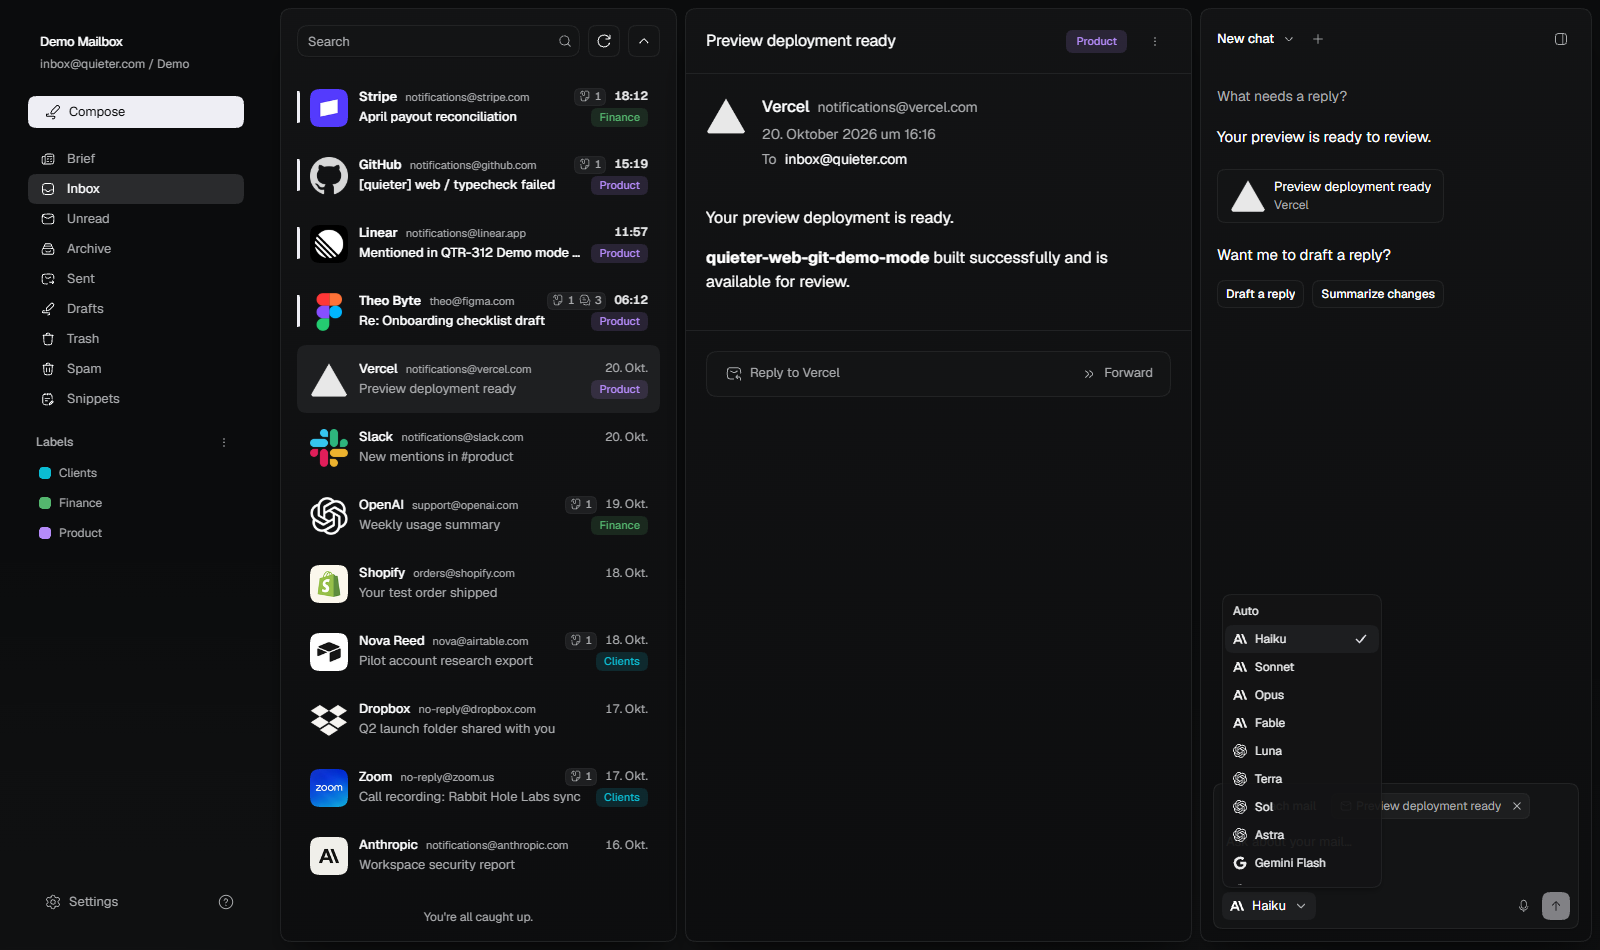
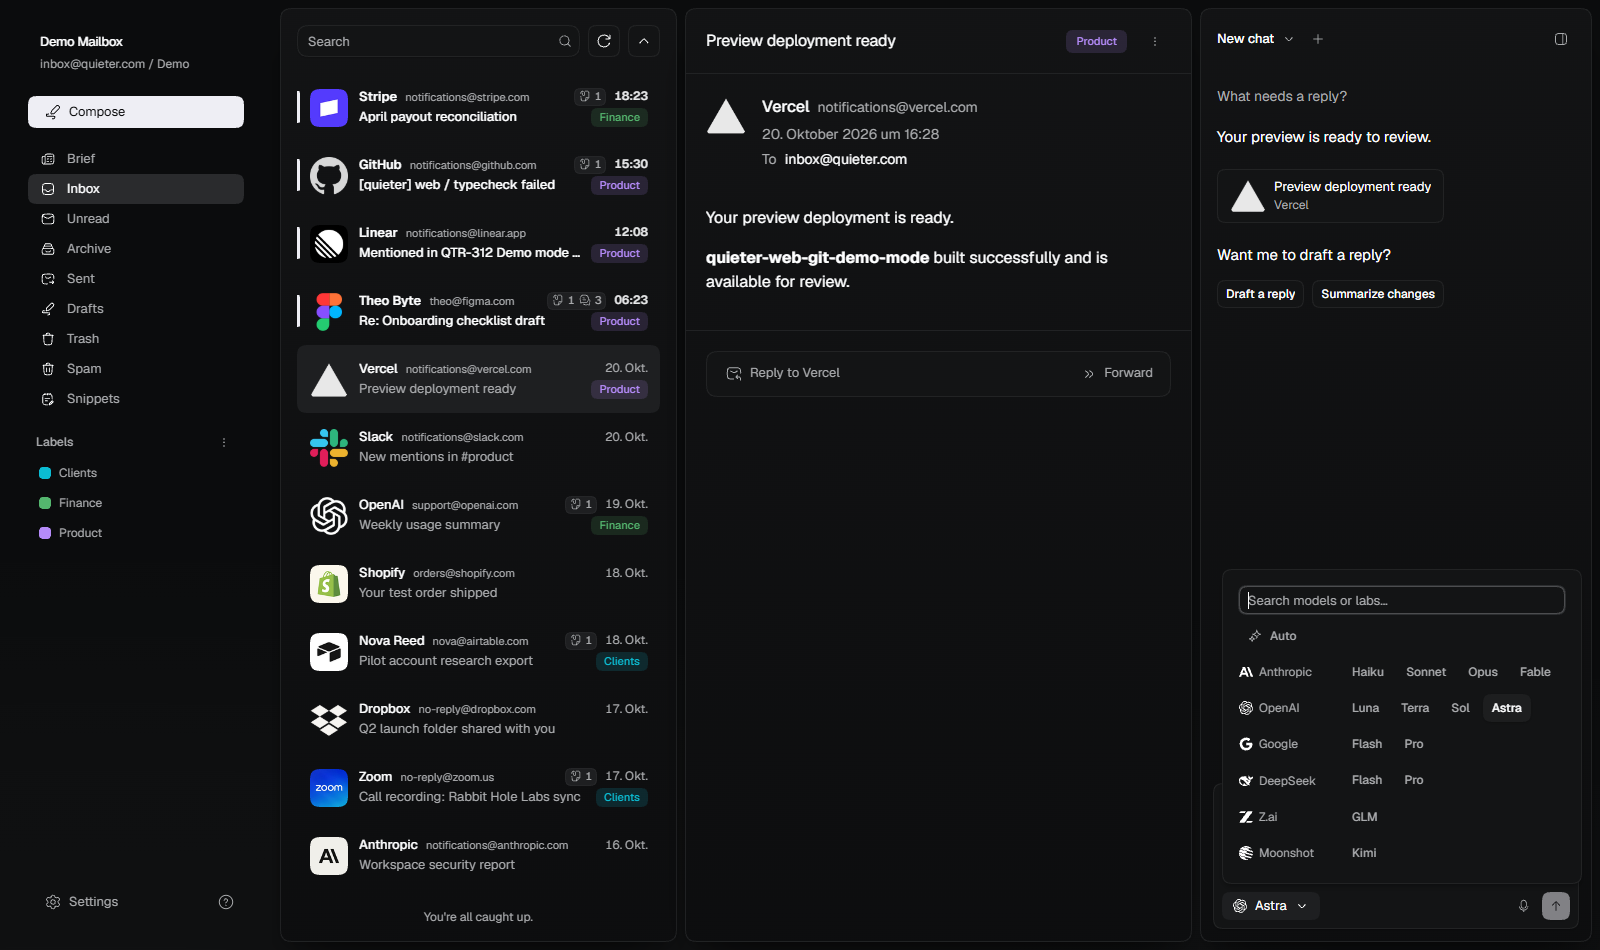
feat(chat): group and search model families

diff --git a/apps/web/src/features/chat/components/chat-model-picker.tsx b/apps/web/src/features/chat/components/chat-model-picker.tsx
@@ -1,0 +1,170 @@
+import { ArrowDown01Icon, SparklesIcon } from "@hugeicons/core-free-icons";
+import { HugeiconsIcon } from "@hugeicons/react";
+import { chatModelGroups, chatModels } from "@quieter/ai/chat-models";
+import type { ChatModel, ChatModelGroup } from "@quieter/ai/chat-models";
+import { Button } from "@quieter/ui/button";
+import { Input } from "@quieter/ui/input";
+import {
+  Popover,
+  PopoverContent,
+  PopoverTitle,
+  PopoverTrigger,
+} from "@quieter/ui/popover";
+import { useState } from "react";
+
+import { ModelLabLogo } from "./model-lab-logo";
+
+const labs = {
+  anthropic: { keywords: "claude", label: "Anthropic" },
+  deepseek: { keywords: "", label: "DeepSeek" },
+  google: { keywords: "gemini", label: "Google" },
+  moonshotai: { keywords: "moonshotai", label: "Moonshot" },
+  openai: { keywords: "gpt chatgpt", label: "OpenAI" },
+  "z-ai": { keywords: "z-ai zai", label: "Z.ai" },
+} satisfies Record<ChatModelGroup, { keywords: string; label: string }>;
+
+export const ChatModelPicker = ({
+  disabled,
+  model,
+  onModelChange,
+}: {
+  disabled?: boolean;
+  model: ChatModel | "auto";
+  onModelChange: (model: ChatModel | "auto") => void;
+}) => {
+  const [open, setOpen] = useState(false);
+  const [search, setSearch] = useState("");
+  const searchTerms = search.toLowerCase().trim().split(/\s+/u).filter(Boolean);
+  const autoMatches = searchTerms.every((term) =>
+    "auto automatic".includes(term)
+  );
+  const groups = chatModelGroups
+    .map((group) => ({
+      group,
+      options: chatModels.filter(
+        (option) =>
+          option.group === group &&
+          searchTerms.every((term) =>
+            `${labs[group].label} ${labs[group].keywords} ${option.label}`
+              .toLowerCase()
+              .includes(term)
+          )
+      ),
+    }))
+    .filter(({ options }) => options.length > 0);
+  const selectedModel = chatModels.find(
+    (option) =>
+      option.value === model ||
+      option.versions.some((version) => version === model)
+  );
+  const selectModel = (value: ChatModel | "auto") => {
+    onModelChange(value);
+    setOpen(false);
+  };
+
+  return (
+    <Popover
+      onOpenChange={(nextOpen) => {
+        setOpen(nextOpen);
+        if (nextOpen) {
+          setSearch("");
+        }
+      }}
+      open={open}
+    >
+      <PopoverTrigger
+        aria-label="Choose model"
+        disabled={disabled}
+        render={<Button className="max-w-full" size="sm" variant="ghost" />}
+      >
+        {selectedModel ? (
+          <ModelLabLogo lab={selectedModel.group} />
+        ) : (
+          <HugeiconsIcon aria-hidden icon={SparklesIcon} />
+        )}
+        <span className="truncate">{selectedModel?.label ?? "Auto"}</span>
+        <HugeiconsIcon aria-hidden icon={ArrowDown01Icon} />
+      </PopoverTrigger>
+      <PopoverContent
+        align="start"
+        className="flex max-h-(--available-height) w-90 flex-col"
+        side="top"
+        size="sm"
+      >
+        <PopoverTitle className="sr-only">Choose model</PopoverTitle>
+        <Input
+          aria-label="Search models"
+          onChange={(event) => {
+            setSearch(event.target.value);
+          }}
+          onKeyDown={(event) => {
+            if (event.key !== "Enter" || event.nativeEvent.isComposing) {
+              return;
+            }
+            event.preventDefault();
+            const firstMatch = groups.at(0)?.options.at(0);
+            if (autoMatches) {
+              selectModel("auto");
+            } else if (firstMatch) {
+              selectModel(firstMatch.value);
+            }
+          }}
+          placeholder="Search models or labs…"
+          size="sm"
+          type="search"
+          value={search}
+        />
+        <div className="mt-2 flex max-h-72 min-h-0 flex-col gap-2 overflow-y-auto">
+          {autoMatches ? (
+            <div>
+              <Button
+                aria-pressed={model === "auto"}
+                onClick={() => {
+                  selectModel("auto");
+                }}
+                size="compact"
+                variant="option"
+              >
+                <HugeiconsIcon aria-hidden icon={SparklesIcon} />
+                Auto
+              </Button>
+            </div>
+          ) : null}
+          {groups.map(({ group, options }) => (
+            <fieldset
+              aria-label={`${labs[group].label} models`}
+              className="flex items-start gap-2"
+              key={group}
+            >
+              <span className="flex w-24 shrink-0 items-center gap-1.5 py-1.5 text-caption text-muted-fg">
+                <ModelLabLogo lab={group} />
+                {labs[group].label}
+              </span>
+              <div className="flex min-w-0 flex-1 flex-wrap gap-1">
+                {options.map((option) => (
+                  <Button
+                    aria-label={option.label}
+                    aria-pressed={selectedModel === option}
+                    key={option.value}
+                    onClick={() => {
+                      selectModel(option.value);
+                    }}
+                    size="compact"
+                    variant="option"
+                  >
+                    {option.label.replace(/^(?:Gemini|DeepSeek) /u, "")}
+                  </Button>
+                ))}
+              </div>
+            </fieldset>
+          ))}
+          {groups.length === 0 && !autoMatches ? (
+            <output className="py-3 text-caption text-muted-fg">
+              No matching models.
+            </output>
+          ) : null}
+        </div>
+      </PopoverContent>
+    </Popover>
+  );
+};

diff --git a/apps/web/src/features/chat/components/chat-composer.tsx b/apps/web/src/features/chat/components/chat-composer.tsx
@@ -4,11 +4,9 @@ import {
   Mail01Icon,
   Mic01Icon,
   Search01Icon,
-  SparklesIcon,
   StopIcon,
 } from "@hugeicons/core-free-icons";
 import { HugeiconsIcon } from "@hugeicons/react";
-import { chatModels } from "@quieter/ai/chat-models";
 import type { ChatModel } from "@quieter/ai/chat-models";
 import { Button } from "@quieter/ui/button";
 import {
@@ -16,18 +14,10 @@ import {
   PromptComposerFrame,
 } from "@quieter/ui/composer-chrome";
 import { IconButtonTooltip } from "@quieter/ui/icon-button-tooltip";
-import {
-  Select,
-  SelectContent,
-  SelectItem,
-  SelectList,
-  SelectTrigger,
-  SelectValue,
-} from "@quieter/ui/select";
 import { Textarea } from "@quieter/ui/textarea";
 import type { KeyboardEvent, ReactNode, Ref, SubmitEvent } from "react";
 
-import { ModelLabLogo } from "./model-lab-logo";
+import { ChatModelPicker } from "./chat-model-picker";
 
 export type ChatContextItem = {
   id: string;
@@ -81,7 +71,6 @@ export const ChatComposer = ({
   transcribing,
 }: ChatComposerProps) => {
   const audioBusy = startingRecording || transcribing;
-  const selectedModel = chatModels.find((option) => option.value === model);
   let dictationIcon = Mic01Icon;
   if (audioBusy) {
     dictationIcon = Loading03Icon;
@@ -145,43 +134,11 @@ export const ChatComposer = ({
         ) : null}
         <div className="flex min-w-0 items-center justify-between gap-2">
           <div className="min-w-0">
-            <Select
+            <ChatModelPicker
               disabled={disabled}
-              items={[{ label: "Auto", value: "auto" }, ...chatModels]}
-              onValueChange={(value) => {
-                if (value !== null) {
-                  onModelChange(value);
-                }
-              }}
-              value={model}
-            >
-              <SelectTrigger
-                aria-label="Choose model"
-                className="max-w-full"
-                size="sm"
-                variant="ghost"
-              >
-                {selectedModel ? (
-                  <ModelLabLogo lab={selectedModel.group} />
-                ) : (
-                  <HugeiconsIcon aria-hidden icon={SparklesIcon} />
-                )}
-                <SelectValue />
-              </SelectTrigger>
-              <SelectContent align="start" side="top" size="compact">
-                <SelectList>
-                  <SelectItem value="auto">Auto</SelectItem>
-                  {chatModels.map((option) => (
-                    <SelectItem key={option.value} value={option.value}>
-                      <span className="flex items-center gap-2">
-                        <ModelLabLogo lab={option.group} />
-                        <span>{option.label}</span>
-                      </span>
-                    </SelectItem>
-                  ))}
-                </SelectList>
-              </SelectContent>
-            </Select>
+              model={model}
+              onModelChange={onModelChange}
+            />
           </div>
           <div className="flex shrink-0 items-center gap-1">
             <IconButtonTooltip label={dictationLabel}>
